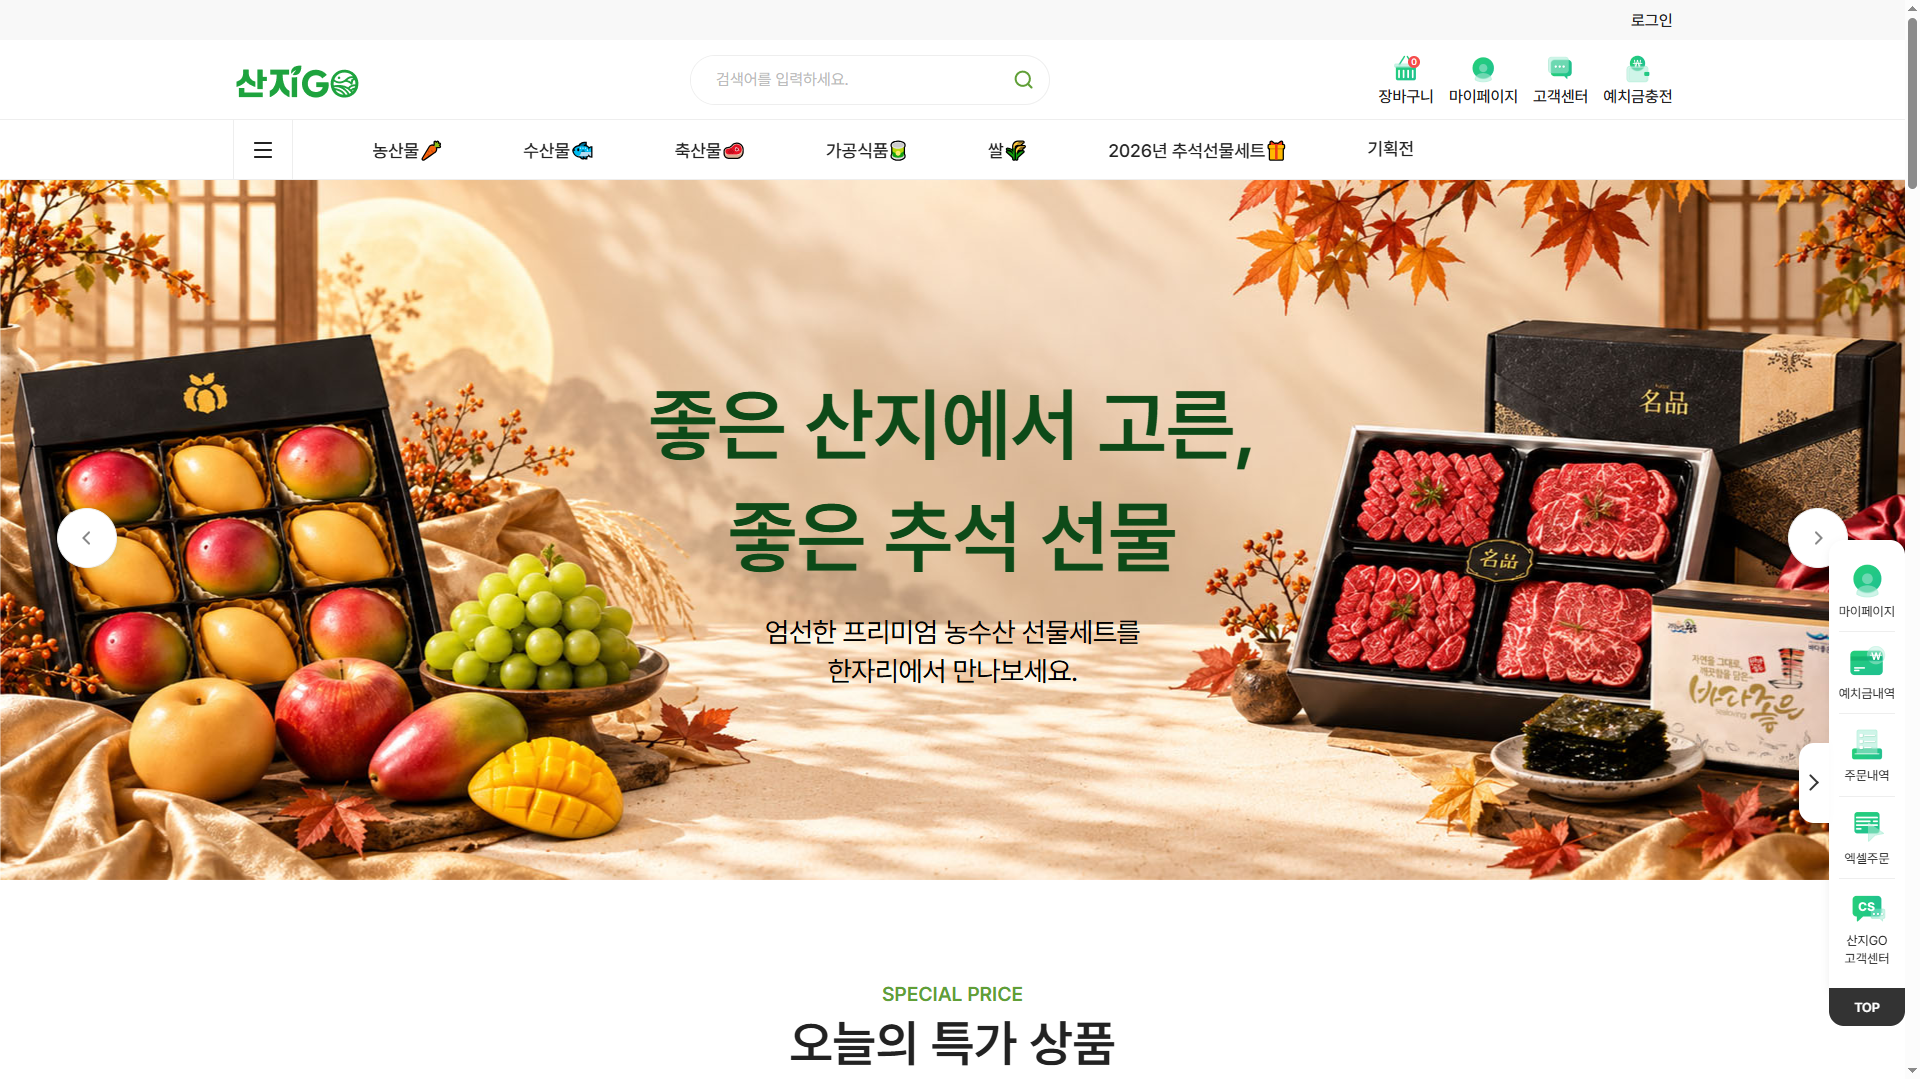
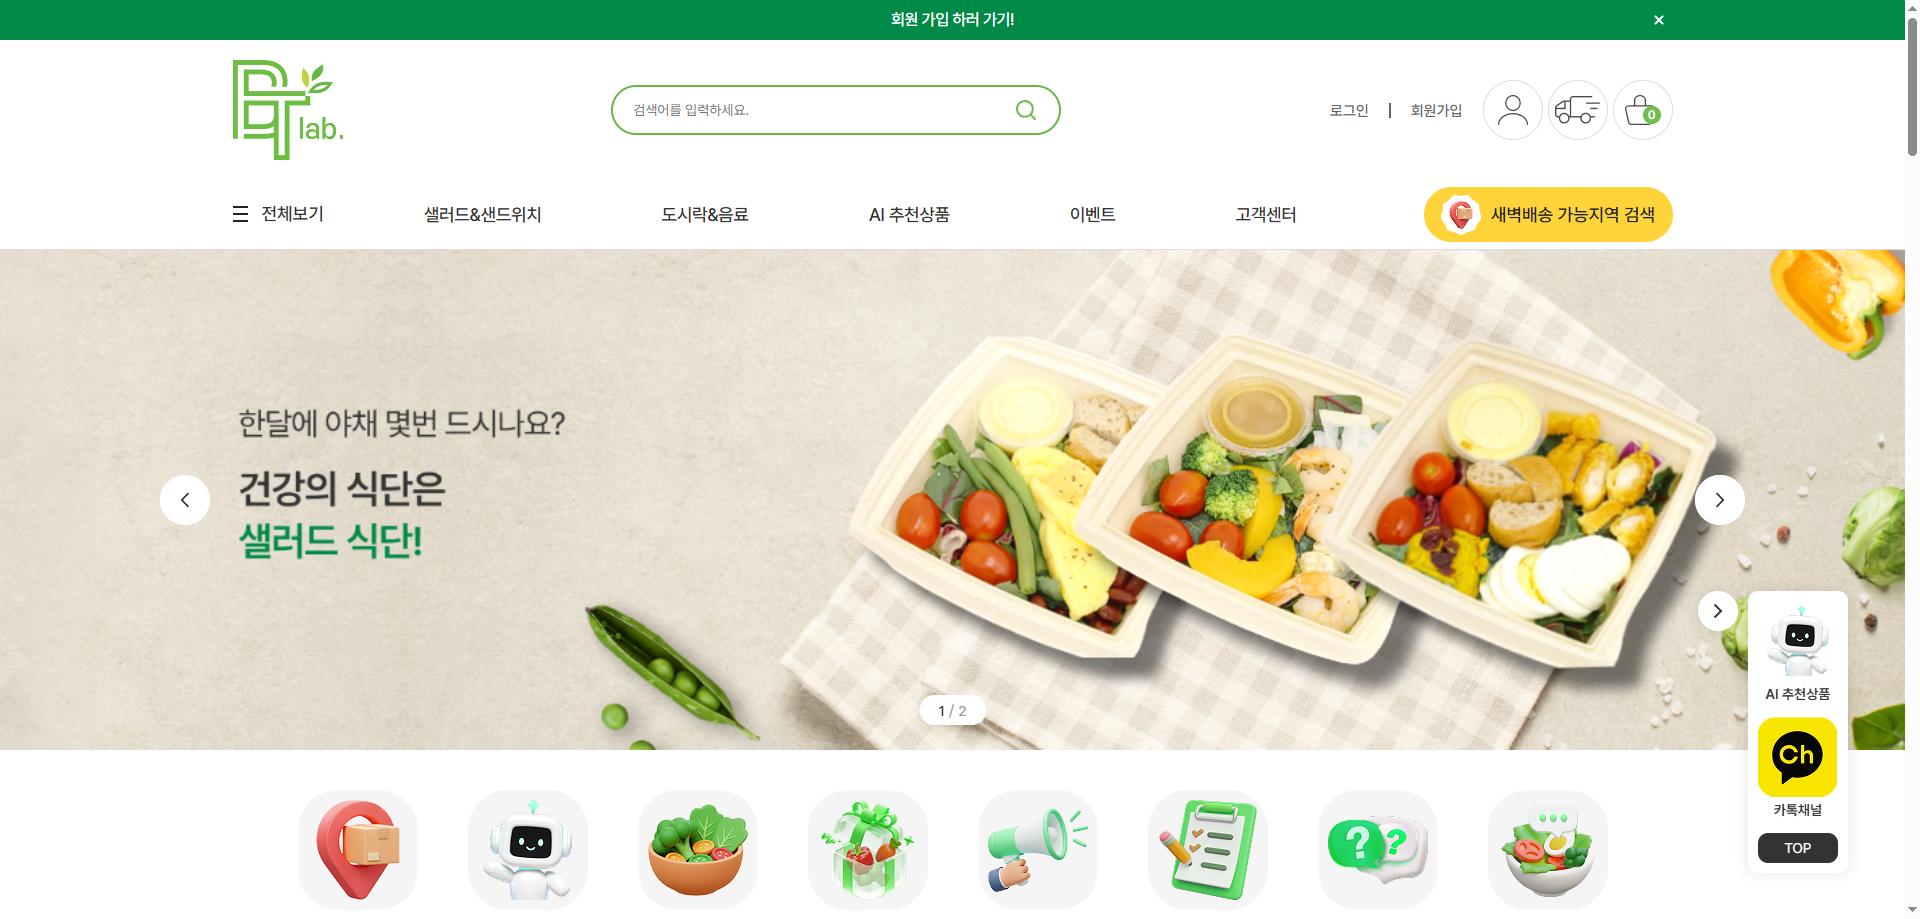
work_1 변경

diff --git a/src/shared/data/staticData.js b/src/shared/data/staticData.js
@@ -206,9 +206,9 @@ export const publishingData = [
     {
         id: "publ_1",
         img: publThum_1,
-        year: "2026",
-        company: "산지GO",
-        link: "https://sanjigo.kr/layout/res/home.php?go=main",
+        year: "2025",
+        company: "본토푸드",
+        link: "https://bontolab.com/",
     },
     {
         id: "publ_2",
